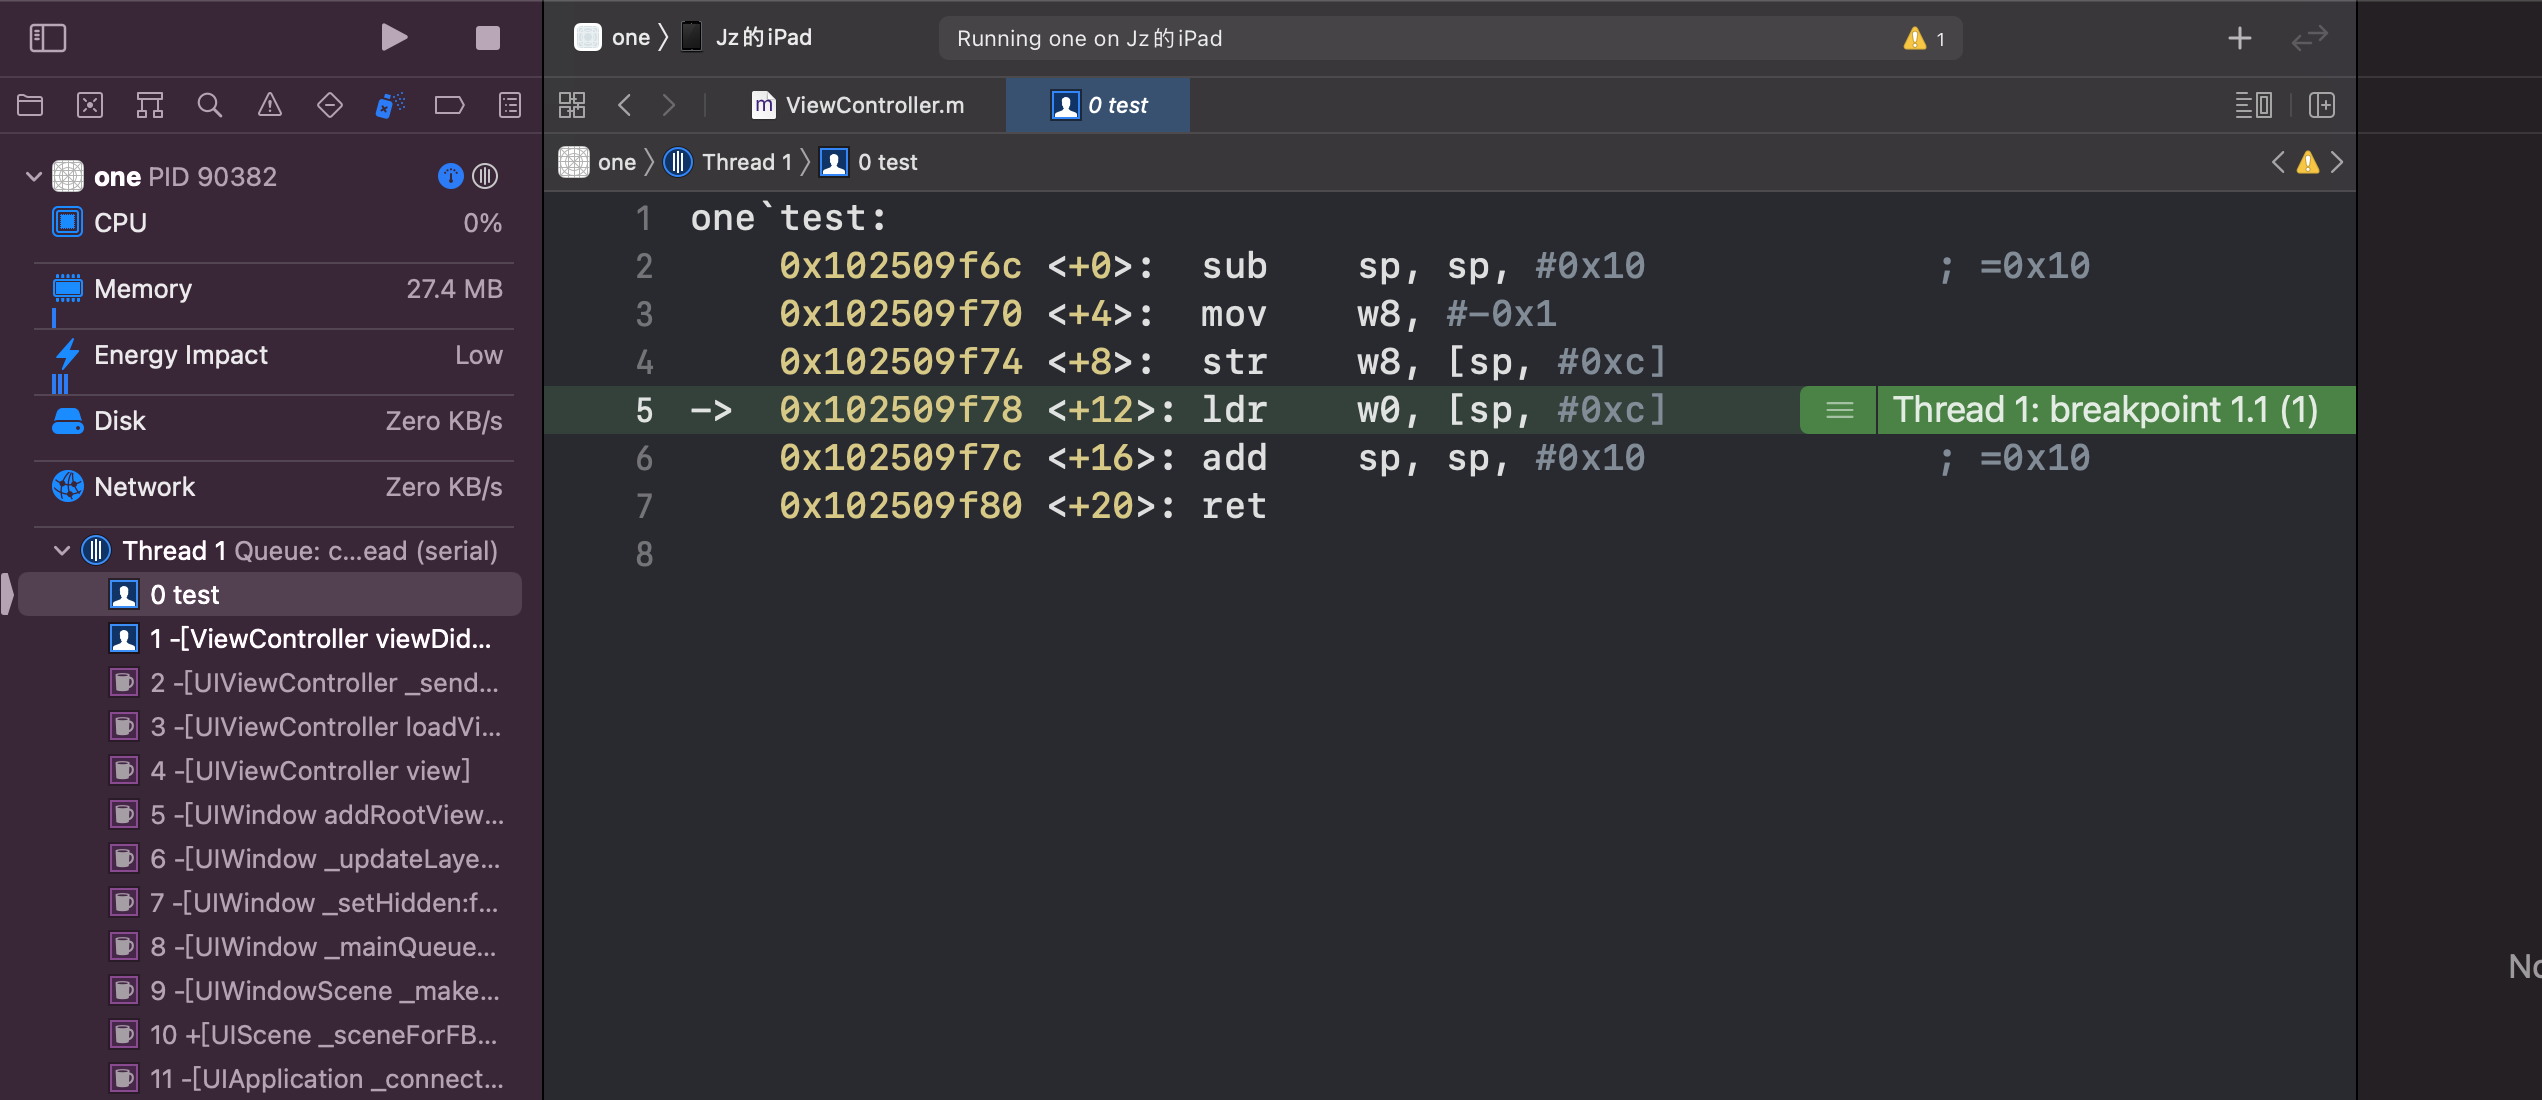
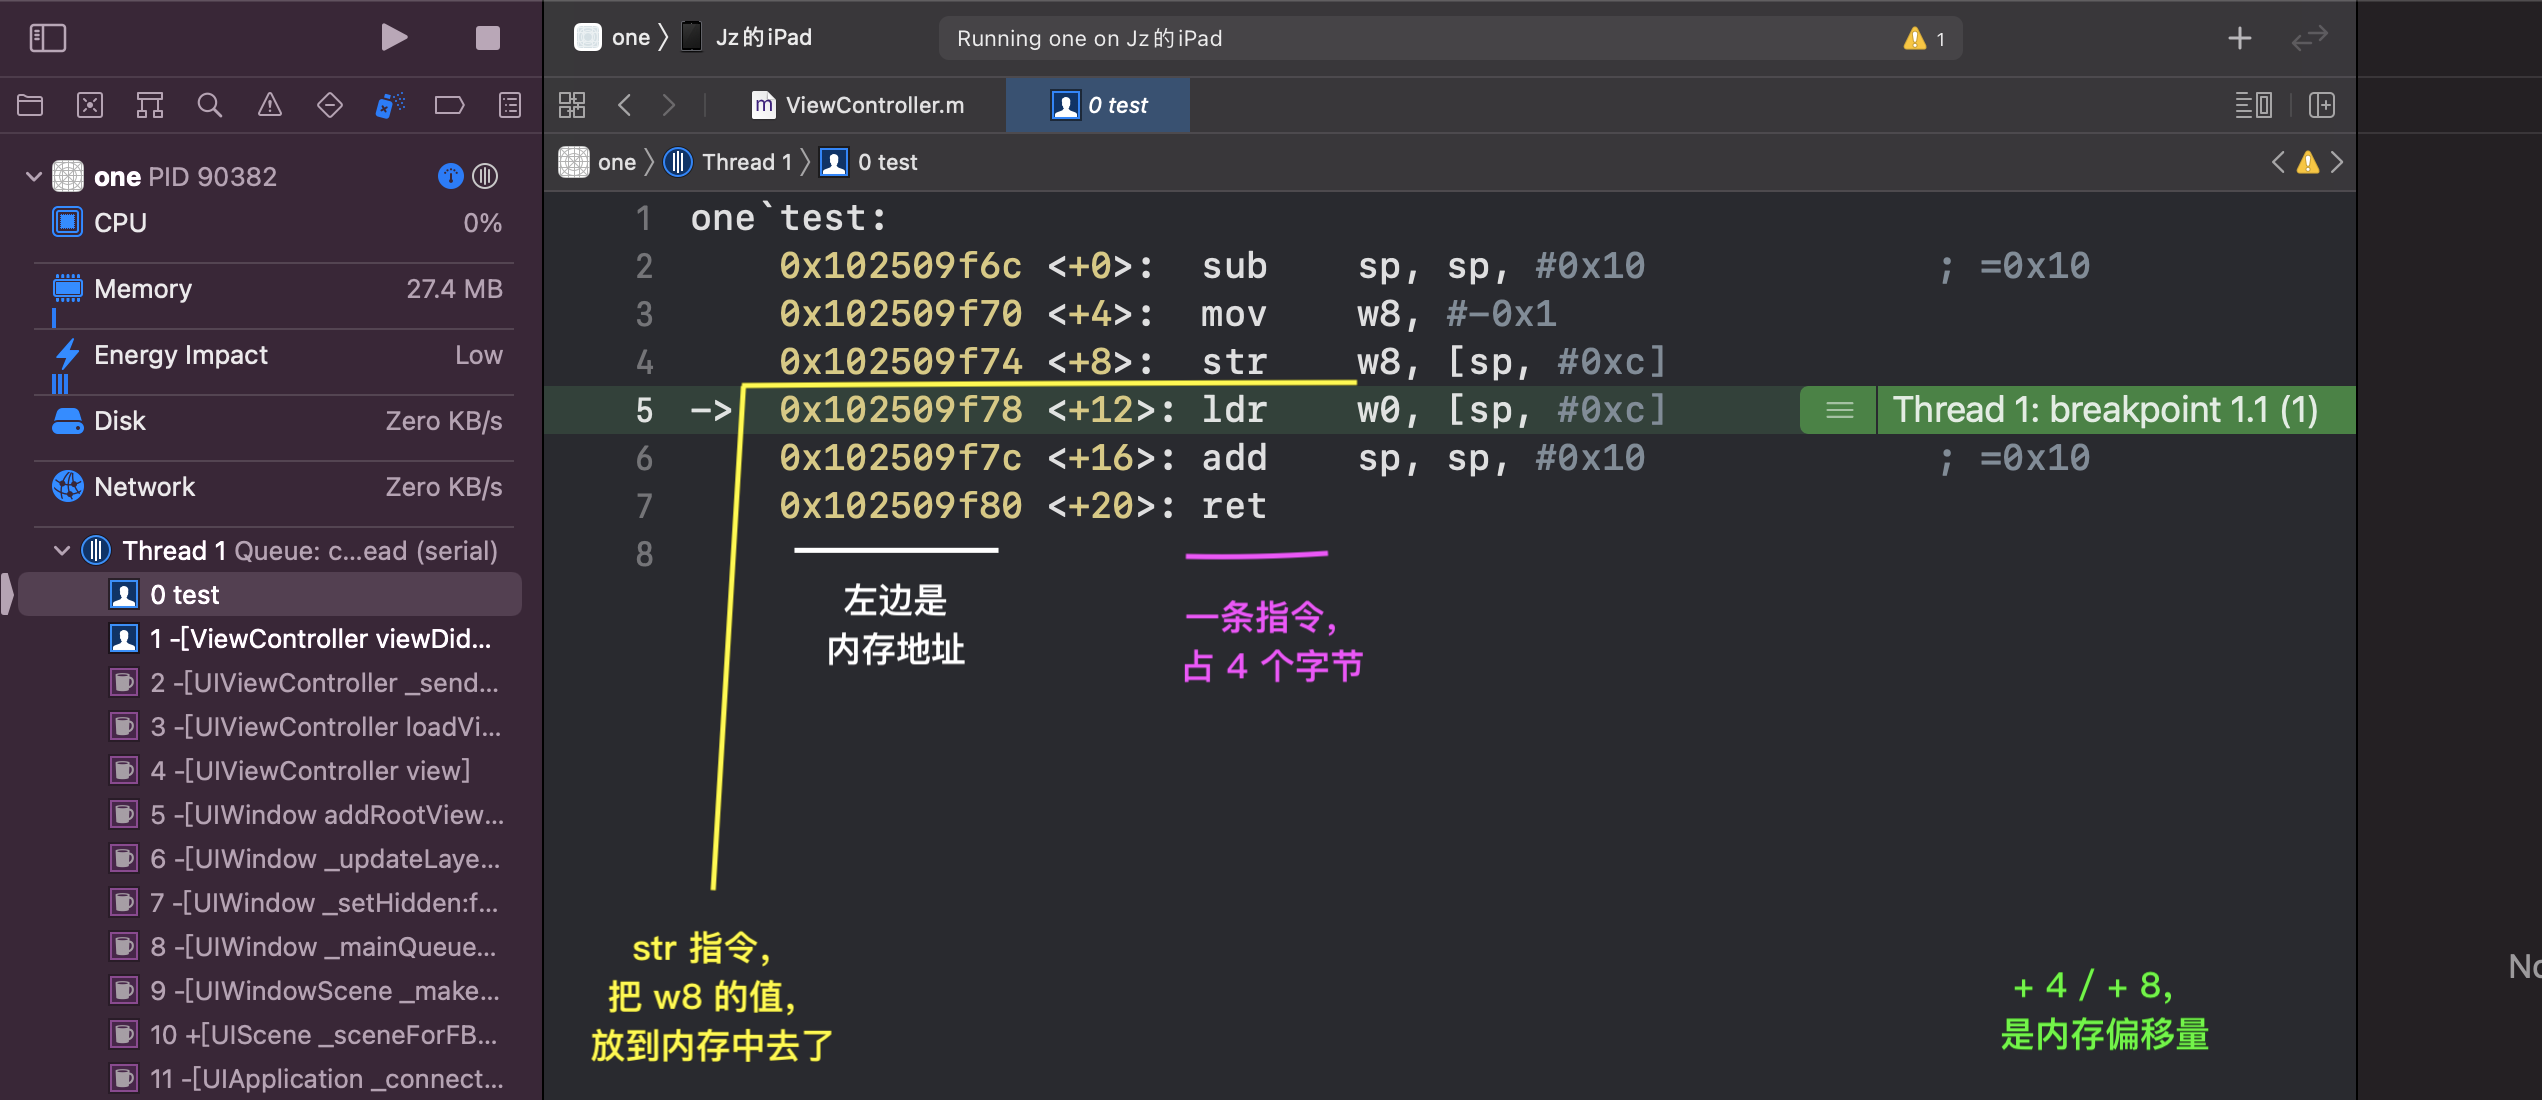
register write pc 0x10025df78

diff --git a/逆向/proj/one/one/ViewController.m b/逆向/proj/one/one/ViewController.m
@@ -33,7 +33,7 @@ int test(void){
 
 - (void)viewDidLoad {
     [super viewDidLoad];
-    
+    test();
     printf("%x\n", test());
     
     

diff --git a/逆向/寄存器/note/0.md b/逆向/寄存器/note/0.md
@@ -1,0 +1,47 @@
+
+
+```
+
+
+(lldb) register read pc
+      pc = 0x000000010025df68  one`test at ViewController.m:17
+(lldb) register write pc 0x10025df78
+(lldb) 
+
+```
+
+
+<hr>
+
+
+<hr>
+
+
+
+
+
+<hr>
+
+
+<hr>
+
+
+
+<hr>
+
+
+<hr>
+
+
+
+
+
+
+
+
+
+<hr>
+
+
+<hr>
+

diff --git a/逆向/寄存器/2_寄存器.md b/逆向/寄存器/2_寄存器.md
@@ -1,0 +1,46 @@
+pc 寄存器
+
+
+<hr>
+
+
+<hr>
+
+
+记录
+
+CPU 即将执行的这一条指令
+
+
+
+
+
+<hr>
+
+
+
+<hr>
+
+
+<hr>
+
+
+
+<hr>
+
+
+<hr>
+
+
+
+
+
+
+
+
+
+<hr>
+
+
+<hr>
+
